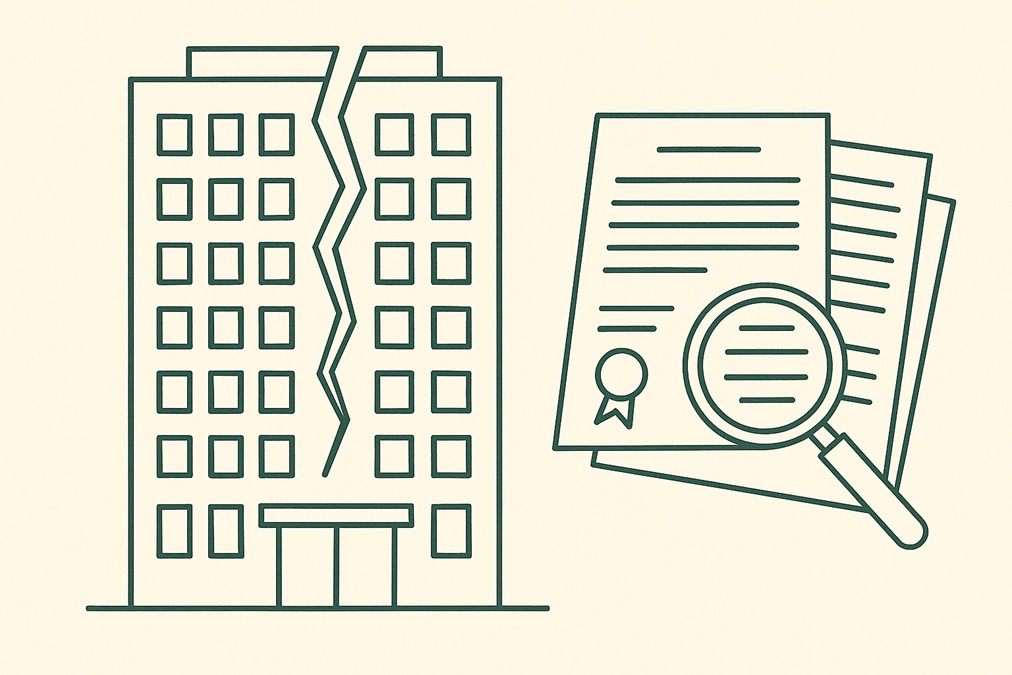
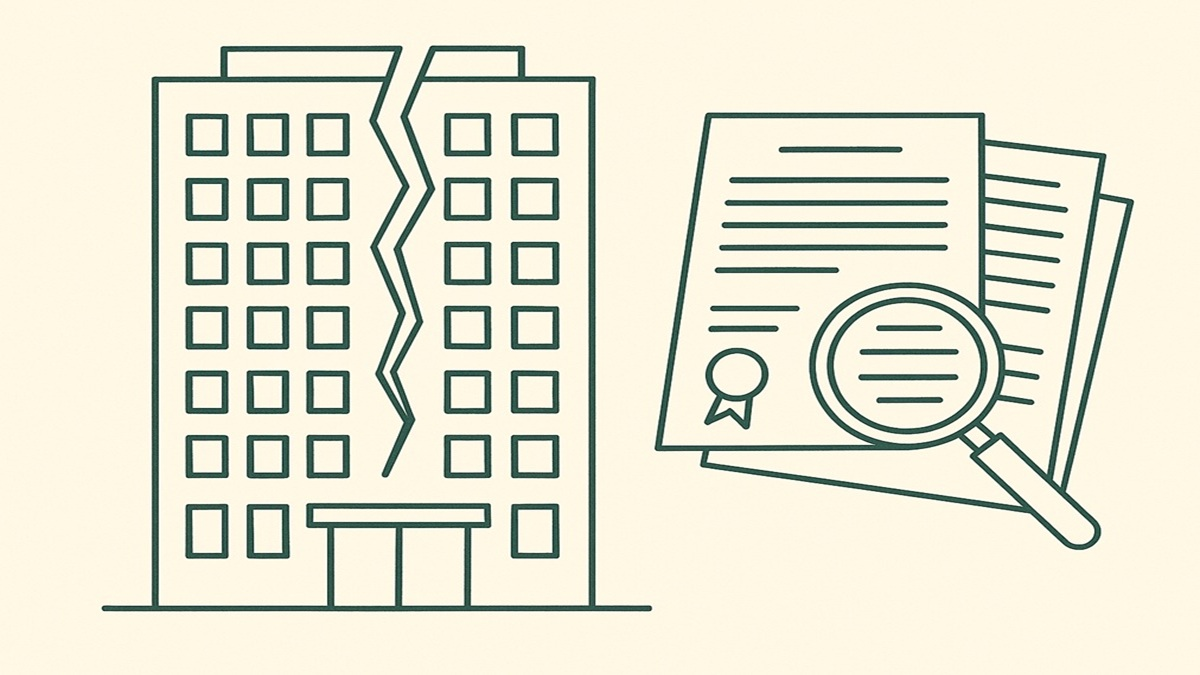
ranbaxy update

diff --git a/articles/ranbaxy-and-the-fda.html b/articles/ranbaxy-and-the-fda.html
@@ -252,24 +252,7 @@ footer{background:var(--forest2);border-top:1px solid rgba(255,255,255,0.06);pad
       <span class="cs-meta-time">7 min read</span>
     </div>
   </div>
-  <div style="max-width:var(--prose);margin:0 auto">
-    <div class="cs-year-band">
-      <div>
-        <div class="cs-year-label">Period</div>
-        <div class="cs-year-value">2004 – 2013</div>
-      </div>
-      <div class="cs-year-divider"></div>
-      <div>
-        <div class="cs-year-label">Company / Parties</div>
-        <div class="cs-year-companies">Ranbaxy, USFDA, Daiichi Sankyo, Sun Pharma</div>
-      </div>
-      <div class="cs-year-divider"></div>
-      <div>
-        <div class="cs-year-label">Outcome</div>
-        <div class="cs-year-companies">$500M penalty, 7 criminal felonies</div>
-      </div>
-    </div>
-  </div>
+  
 </header>
 
 <div class="cover">